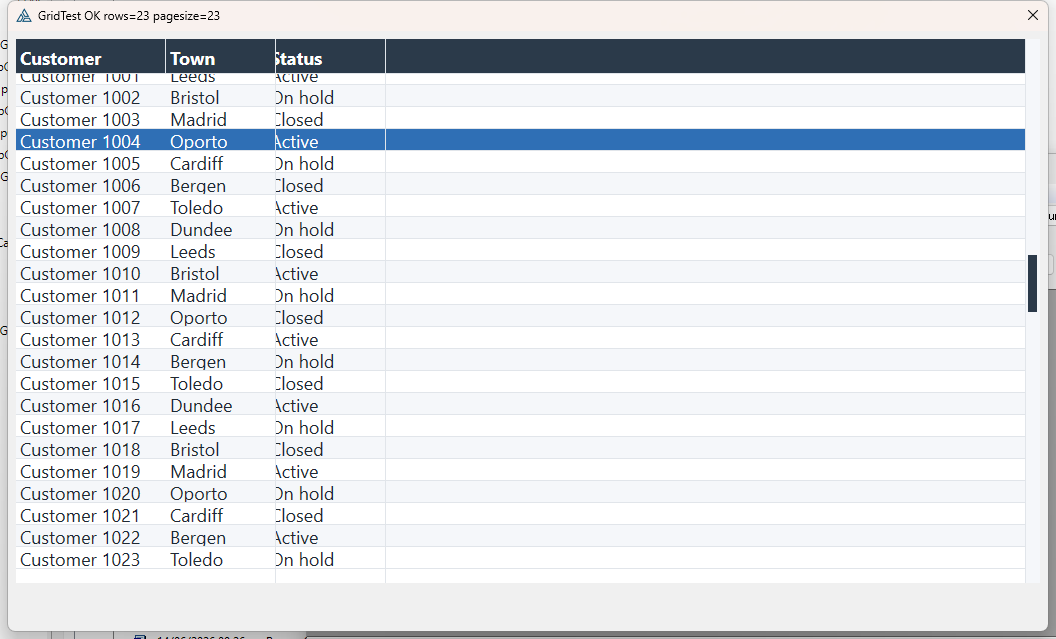
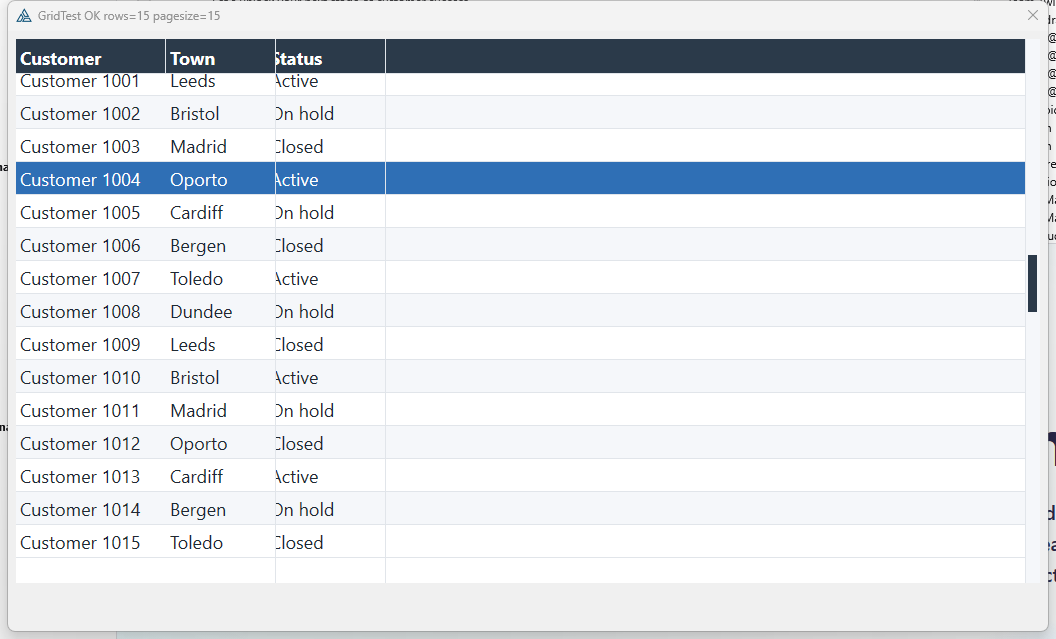
BrowseGrid: a row can never be shorter than the type needs
The leading still was not growing, and the way it failed named the culprit: the
HEADING grew and the rows did not. d2g_FontSize sets both, and only the row
height has anything that reads back off the LIST - so something was still
handing the grid the LIST's sixteen pixel line after the font had grown.

Chasing which call ordering did it is the wrong fix. There are several paths
that can set a row height and any of them can be wrong, so d2g_RowHeight now
refuses a height shorter than the type needs - in the engine, in one place -
and BG:Rows sends the clamped value back to the LIST so the browse never loads
to a height nothing is drawn at. d2g_HeaderHeight does the same, except that
zero still means no heading at all.

gridtest.clw reproduces the failure on purpose: grow the type to 18 point, then
try to squash the rows back to 16 the way the LIST did. pagesize=15 is the
proof - 33 pixel rows, where 16 would have given about 30.

Regenerated and rebuilt against the copy of School: 0 errors.

diff --git a/templates/BrowseGrid/d2grid.c b/templates/BrowseGrid/d2grid.c
@@ -527,8 +527,28 @@ void d2g_Column(int h, int col, int width, int align, const char* title) {
 }
 
 void d2g_Frozen(int h, int n)      { Grid* c = slot(h); if (c) c->frozen = n; }
-void d2g_RowHeight(int h, int px)  { Grid* c = slot(h); if (c && px > 4) c->rowH = px; }
-void d2g_HeaderHeight(int h,int px){ Grid* c = slot(h); if (c && px >= 0) c->hdrH = px; }
+/* A row can never be shorter than the type needs. Whatever asks - the LIST's
+   line height, the developer's own setting - it is clamped here, because the
+   alternative is big type crammed into short rows with its descenders cut off
+   by the row below, and there are several paths that can ask. One place, once,
+   instead of trusting all of them to have thought about it. */
+void d2g_RowHeight(int h, int px) {
+    Grid* c = slot(h);
+    int   need;
+    if (!c || px <= 4) return;
+    need = D2G_ROWFOR(c->pt);
+    c->rowH = px < need ? need : px;
+}
+
+/* what the type needs, so the Clarion side can keep the LIST in step */
+int d2g_RowNeed(int h) { Grid* c = slot(h); return c ? D2G_ROWFOR(c->pt) : 0; }
+void d2g_HeaderHeight(int h,int px){
+    Grid* c = slot(h);
+    int   need;
+    if (!c || px < 0) return;
+    need = D2G_HDRFOR(c->pt);
+    c->hdrH = (px && px < need) ? need : px;   /* 0 means no heading at all */
+}
 void d2g_Total(int h, int n)       { Grid* c = slot(h); if (c) c->totalRows = n; }
 void d2g_Select(int h, int row)    { Grid* c = slot(h); if (c) c->selRow = row; }
 void d2g_ScrollX(int h, int x)     { Grid* c = slot(h); if (c) c->scrollX = x < 0 ? 0 : x; }

diff --git a/examples/BrowseGrid/README.md b/examples/BrowseGrid/README.md
@@ -430,7 +430,18 @@ to fit however many rows there is now room for.
 It is `pt * 3 / 2 + 6` now, which grows with the type and lands on exactly the same numbers as the old
 rule at the default size, so nothing moves for anyone who never touches it.
 
-`docs/BrowseGrid-big-font.png` is the harness at 18 point: rows 33 pixels, nothing clipped.
+**Then it happened again**, and the way it failed named the culprit: the *heading* grew and the *rows*
+did not. `d2g_FontSize` sets both, and only the row height has anything that reads back off the LIST —
+so something was still handing the grid the LIST's 16-pixel line after the font had grown.
+
+Chasing which call ordering did it is the wrong fix, because there are several paths that can set a row
+height and any of them can be wrong. `d2g_RowHeight` now **refuses** a height shorter than the type
+needs, in the engine, once — and `BG:Rows` sends the clamped value back to the LIST, so the browse
+never loads to a height nothing is drawn at.
+
+`gridtest.clw` reproduces the failure deliberately: grow the type to 18 point, then try to squash the
+rows back to 16 the way the LIST did. `pagesize=15` is the proof — 33-pixel rows, not 16, which would
+have given about 30. `docs/BrowseGrid-big-font.png` is that run.
 
 ## Ctrl and the roller resize the type
 
